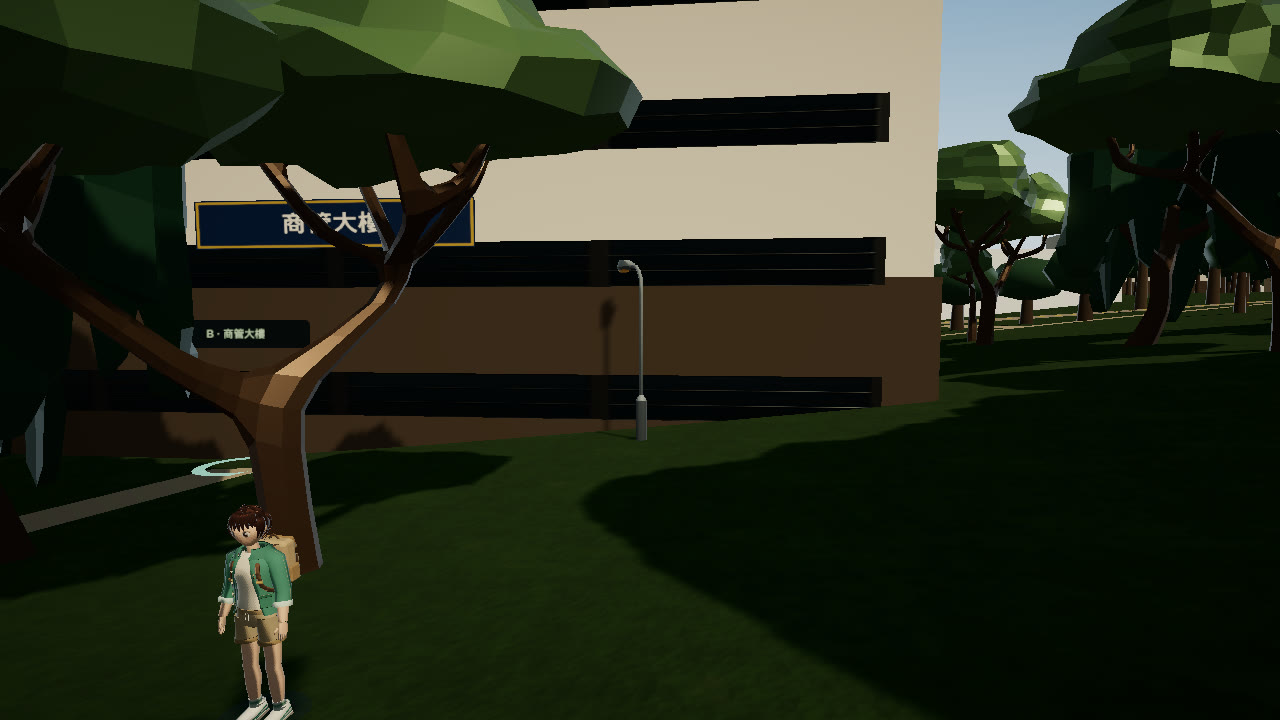
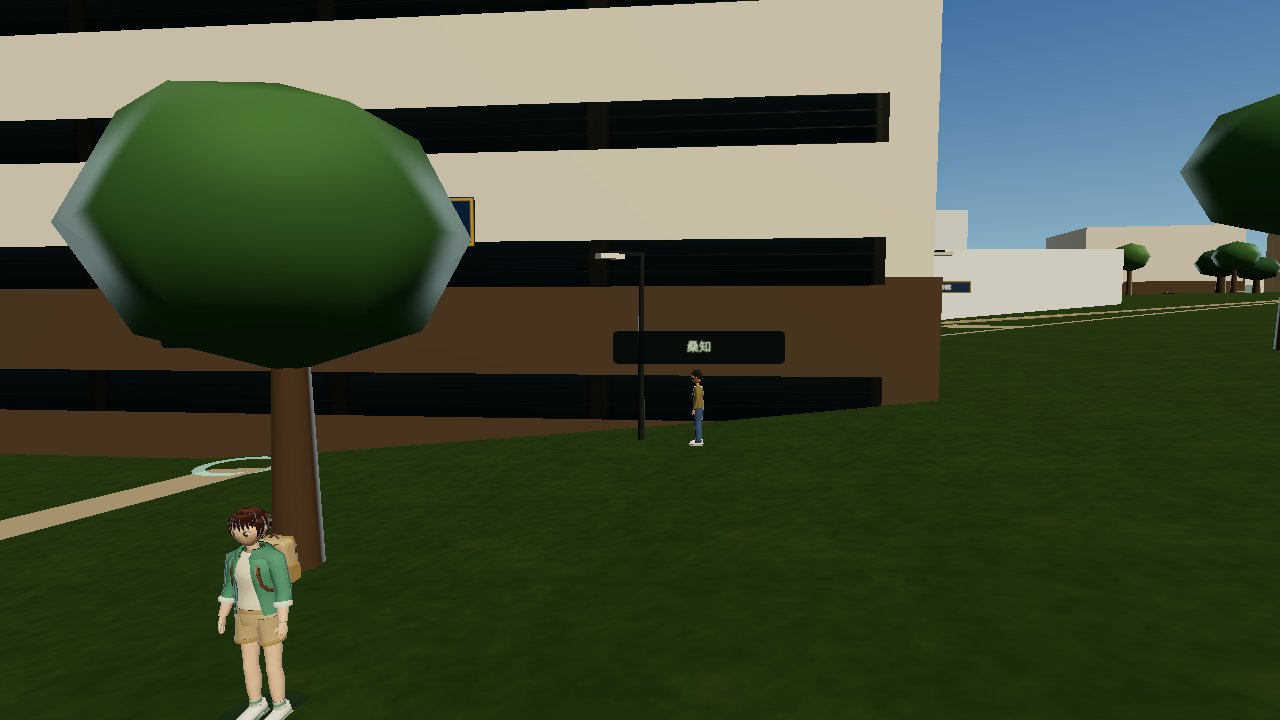
Record the street-lamp clearance check.
Lamps that land inside a solid stop 1.2 m outside the nearest wall, and the library plate faces south.

diff --git a/docs/integration/HANDOFF.md b/docs/integration/HANDOFF.md
@@ -4,17 +4,18 @@
 
 ## 現在
 
-- 這次把十二名虛構的教授與系主任接到既有敘事。接到 `origin/main` `dca0984`。遊戲程式是 `afa63cc`。
-- 顧衡站在建築系館南側的估計位置。選「我先補剖面」後經驗 12→34，兩個任務各記一次。重載後經驗仍是 34。390×780 要捲到底才看得到「離開，不結算」。
-- 跨系統路線在 `http://127.0.0.1:8142/` 通過：大門經驗 20、筆記 19；補給後經驗 44、筆記 21、學期期中；突襲小考 65→45；第二客戶端看到期中；`revision_conflict`；斷線時雲端經驗停在 47；登出 401。`pageErrors` 空。
+- 這次把落在樓裡的路燈推到牆外。接到 `origin/main` `f5ac653`。遊戲程式是 `6d3aac6`。
+- 商管大樓和海事博物館各有一盞停在南牆外 1.2 m。圖書館名牌朝南，貼在牆外。1280×720 與 390×780 都看得到商管大樓前的燈站在草地上。
+- 跨系統路線在 `http://127.0.0.1:8143/` 通過：大門經驗 20、筆記 19；補給後經驗 44、筆記 21、學期期中；突襲小考 65→45；第二客戶端看到期中；`revision_conflict`；斷線時雲端經驗停在 47；登出 401。`pageErrors` 空。
+- PR #122 `571779` 看過。它沒有第二個顧衡。遊戲程式比 `main` 舊，會拿掉裝備樣式和遭遇寫入狀態。不要單獨合併。它的路線腳本在玩家還沒有零件時就放宮燈，接不上現在的背包。
 
-## 本輪已驗證（教師故事）
+## 本輪已驗證（路燈淨空）
 
-`npm test` 305 通過。`node --experimental-transform-types scripts/integration-route.mjs` 走 `http://127.0.0.1:8142/`。幀時間是 SwiftShader。崗位是估計的。
+`node --test scripts/prop-clearance.test.mjs` 通過。`npm test` 306 通過。`node --experimental-transform-types scripts/integration-route.mjs` 走 `http://127.0.0.1:8143/`。幀時間是 SwiftShader。燈位是 estimated。
 
 ## 下一步
 
-先 `git fetch`。教師故事已在 `main`，遊戲程式是 `afa63cc`。沒有再變就不要重跑跨系統路線，也不要為了對齊 SHA 再寫一筆。PR #32 的 `1fc5887` 仍不合併。整合 PR 是 #139。來源 `246eadf` 不是祖先，不要單獨合併 PR #131。PR #128、#129、#110、#108、#107、#105、#102、#101、#99、#97、#96、#93、#91、#90、#88、#86、#85、#82、#80、#79、#77、#75、#73、#72、#70、#68、#67、#65、#63、#61、#59、#56、#54、#53、#51 的程式已經在更早的整合裡，也不要再單獨合併。下一項先看 PR #122（`571779`，顧衡的開場）。它可能再接一次顧衡，先確認沒有第二個崗位。接著是路燈與圖書館名牌移出實體（PR #138，`e092064`）、圖書館坡道（PR #134，`75128e0`）、五虎球場（PR #135，`06a75dc`）、坡道欄杆（PR #132，`1dce114`）、海事博物館船首（PR #127，`d0fd98b`）、會文館（PR #111，`412b130`）、司令臺台面（PR #113，`f2750c7`）、低畫質行人（PR #115，`9672ff3`）、美術傳輸預算（PR #116，`9a3d594`）、宮燈大道四個時段（PR #118，`266e4b7`）、宮燈鏡頭（PR #121，`3ce5f17`）、路燈燈頭（PR #124，`2b45515`）。先看它們目前的 head，再各自整合，不要單獨合併。三角形仍用 `7507c59` 那次重測。
+先 `git fetch`。路燈這輪已驗證，整合 PR 待開，還沒進 `main`。遊戲程式是 `6d3aac6`。PR #32 的 `1fc5887` 仍不合併。來源 `e092064` 不是祖先，不要單獨合併 PR #138。不要單獨合併 PR #122。PR #131、#128、#129、#110、#108、#107、#105、#102、#101、#99、#97、#96、#93、#91、#90、#88、#86、#85、#82、#80、#79、#77、#75、#73、#72、#70、#68、#67、#65、#63、#61、#59、#56、#54、#53、#51 的程式已經在更早的整合裡，也不要再單獨合併。下一項是圖書館坡道（PR #134，`75128e0`）、五虎球場（PR #135，`06a75dc`）、坡道欄杆（PR #132，`1dce114`）、海事博物館船首（PR #127，`d0fd98b`）、會文館（PR #111，`412b130`）、司令臺台面（PR #113，`f2750c7`）、低畫質行人（PR #115，`9672ff3`）、美術傳輸預算（PR #116，`9a3d594`）、宮燈大道四個時段（PR #118，`266e4b7`）、宮燈鏡頭（PR #121，`3ce5f17`）、路燈燈頭（PR #124，`2b45515`）。先看它們目前的 head，再各自整合，不要單獨合併。三角形仍用 `7507c59` 那次重測。
 
 INT-01 維持不動。不要新增學期選擇，也不要做第二套獎勵帳。
 

diff --git a/docs/integration/STATUS.md b/docs/integration/STATUS.md
@@ -1,13 +1,13 @@
 # 整合狀態
 
-更新：2026-11-12。十二名虛構的教授與系主任可以在估計的崗位交談。獎勵仍進既有背包，而且只記一次。幀時間仍是 SwiftShader。
+更新：2026-11-12。落在樓裡的路燈已推到牆外 1.2 m。圖書館名牌貼在南牆外側。位置仍是估計的。幀時間仍是 SwiftShader。
 本文件只記實際程式、PR 與本輪驗收。不把 M1 或 M2 當成整款遊戲完成，也不以 PR 或文件數量估算完成率。
 
 ## 三條線
 
 | 線 | 目前成果 | 開放 PR | 狀態 |
 | --- | --- | --- | --- |
-| 美術與場景 | 鍾靈化學館是深色基座、淺色館身、南向玻璃和屋頂排氣箱。 | 來源 PR #110 `eee5c91`。整合 PR #130 | `merged` |
+| 美術與場景 | 商管大樓和海事博物館的路燈停在南牆外。圖書館名牌朝南，貼在牆外。 | 來源 PR #138 `e092064`。整合 PR 待開 | `verified` |
 | 後端 | 可選 RPG 雲端存檔已在 `main`。未登入只寫本機。第一次上傳要明示。衝突回 `revision_conflict`，由玩家選保留雲端或本機。靜態產物不含這套 API。 | [#9](https://github.com/aa0968111723-prog/forge-bloom-quiet-falcon/pull/9) 與 [#13](https://github.com/aa0968111723-prog/forge-bloom-quiet-falcon/pull/13) 已合併 | `merged` |
 | 內容 | 十二名虛構的教授與系主任可以在估計的崗位交談。跨學院的選擇會改後面的句子。獎勵仍進既有背包，而且只記一次。 | 來源 PR #131 `246eadf`。整合 PR #139 | `merged` |
 
@@ -15,15 +15,15 @@
 
 ## 本輪範圍
 
-走到建築系館南側的估計位置可以跟顧衡交談。他先問缺的線。選「我先補剖面」之後，經驗從 12 到 34，任務 `quest-faculty-gu-meet` 與 `quest-faculty-studio-meet` 各記一次。重載後經驗仍是 34，下一句已經換成裂縫還在。窄畫面把對話捲到底才看得到「離開，不結算」，關閉鈕是 44×44。角色是虛構的。`MAIN_INTEGRATION` 仍是 false。裝備槽與遭遇進度仍在。
+路燈中心若落在實體裡，會沿最近的一面推到牆外 1.2 m。商管大樓和海事博物館各有一盞從樓裡移到南牆外。圖書館名牌改朝南，貼在南牆外側。1280×720 與 390×780 都看得到商管大樓前的燈站在草地上。位置仍是 estimated。化學館仍是淺色館身和屋頂排氣箱。
 
 ## 路線
 
 | 項目 | 狀態 |
 | --- | --- |
-| 已製作 | 教師崗位掛在既有敘事。顧衡的認識付經驗 6、主線付 4、發現地點付 12，而且只記一次 |
-| 已驗證 | 靜態頁 `http://127.0.0.1:8142/`。1280×720 看得到三個選項。390×780 捲到底看得到「離開，不結算」。`npm test` 305 通過。跨系統路線在同一站，`pageErrors` 空 |
-| 已合併 | 是。遊戲程式 `afa63cc`。整合 PR #139。`main` 未受保護、沒有必須的 check |
+| 已製作 | 路燈中心留在碰撞體外 1.2 m。圖書館名牌朝南，z 在南牆外側 |
+| 已驗證 | 靜態頁 `http://127.0.0.1:8143/`。1280×720 與 390×780 看得到商管大樓南牆外的路燈。`npm test` 306 通過。跨系統路線在同一站，`pageErrors` 空 |
+| 已合併 | 否。遊戲程式 `6d3aac6`。整合 PR 待開。`main` 未受保護、沒有必須的 check |
 | 已部署 | 否 |
 
 ## 尚未完成的遊戲範圍

diff --git a/docs/integration/CONTRACTS.md b/docs/integration/CONTRACTS.md
@@ -70,6 +70,8 @@ URL 帶內容雜湊。幾何與 atlas 共享。卸載只走 `releaseArtInstance`
 
 教授與系主任也走這份存檔和既有 `grantQuestReward`。十二名都是虛構角色，崗位是門口外推的估計位置。同一個任務只付一次。`MAIN_INTEGRATION` 仍是 false。
 
+路燈中心若落在實體裡，會沿最近的一面推到牆外 1.2 m。圖書館名牌朝南，貼在南牆外側。燈位仍是 estimated。
+
 同一條高畫質路線在遊戲程式 `7507c59` 的靜態頁重測：標題 1,204,683、戶外 1,562,527、戰鬥 1,495,745、返回 1,437,689，都低於 1.6 M。室內 46,548。幀時間是這台 SwiftShader，不是手機或 RTX 3060。手機圖示只改 CSS，沒有重測三角形。
 
 窄於 700px 時右上 `.ad-icon` 是 44×44，快捷欄 svg 是 24×24。觸控且窄於 700px 的快捷鈕是 44px。更寬的畫面仍用 42×42 的工具鈕。技能圖示仍讀 `SKILL_GLYPH`，沒有第二份技能表。
